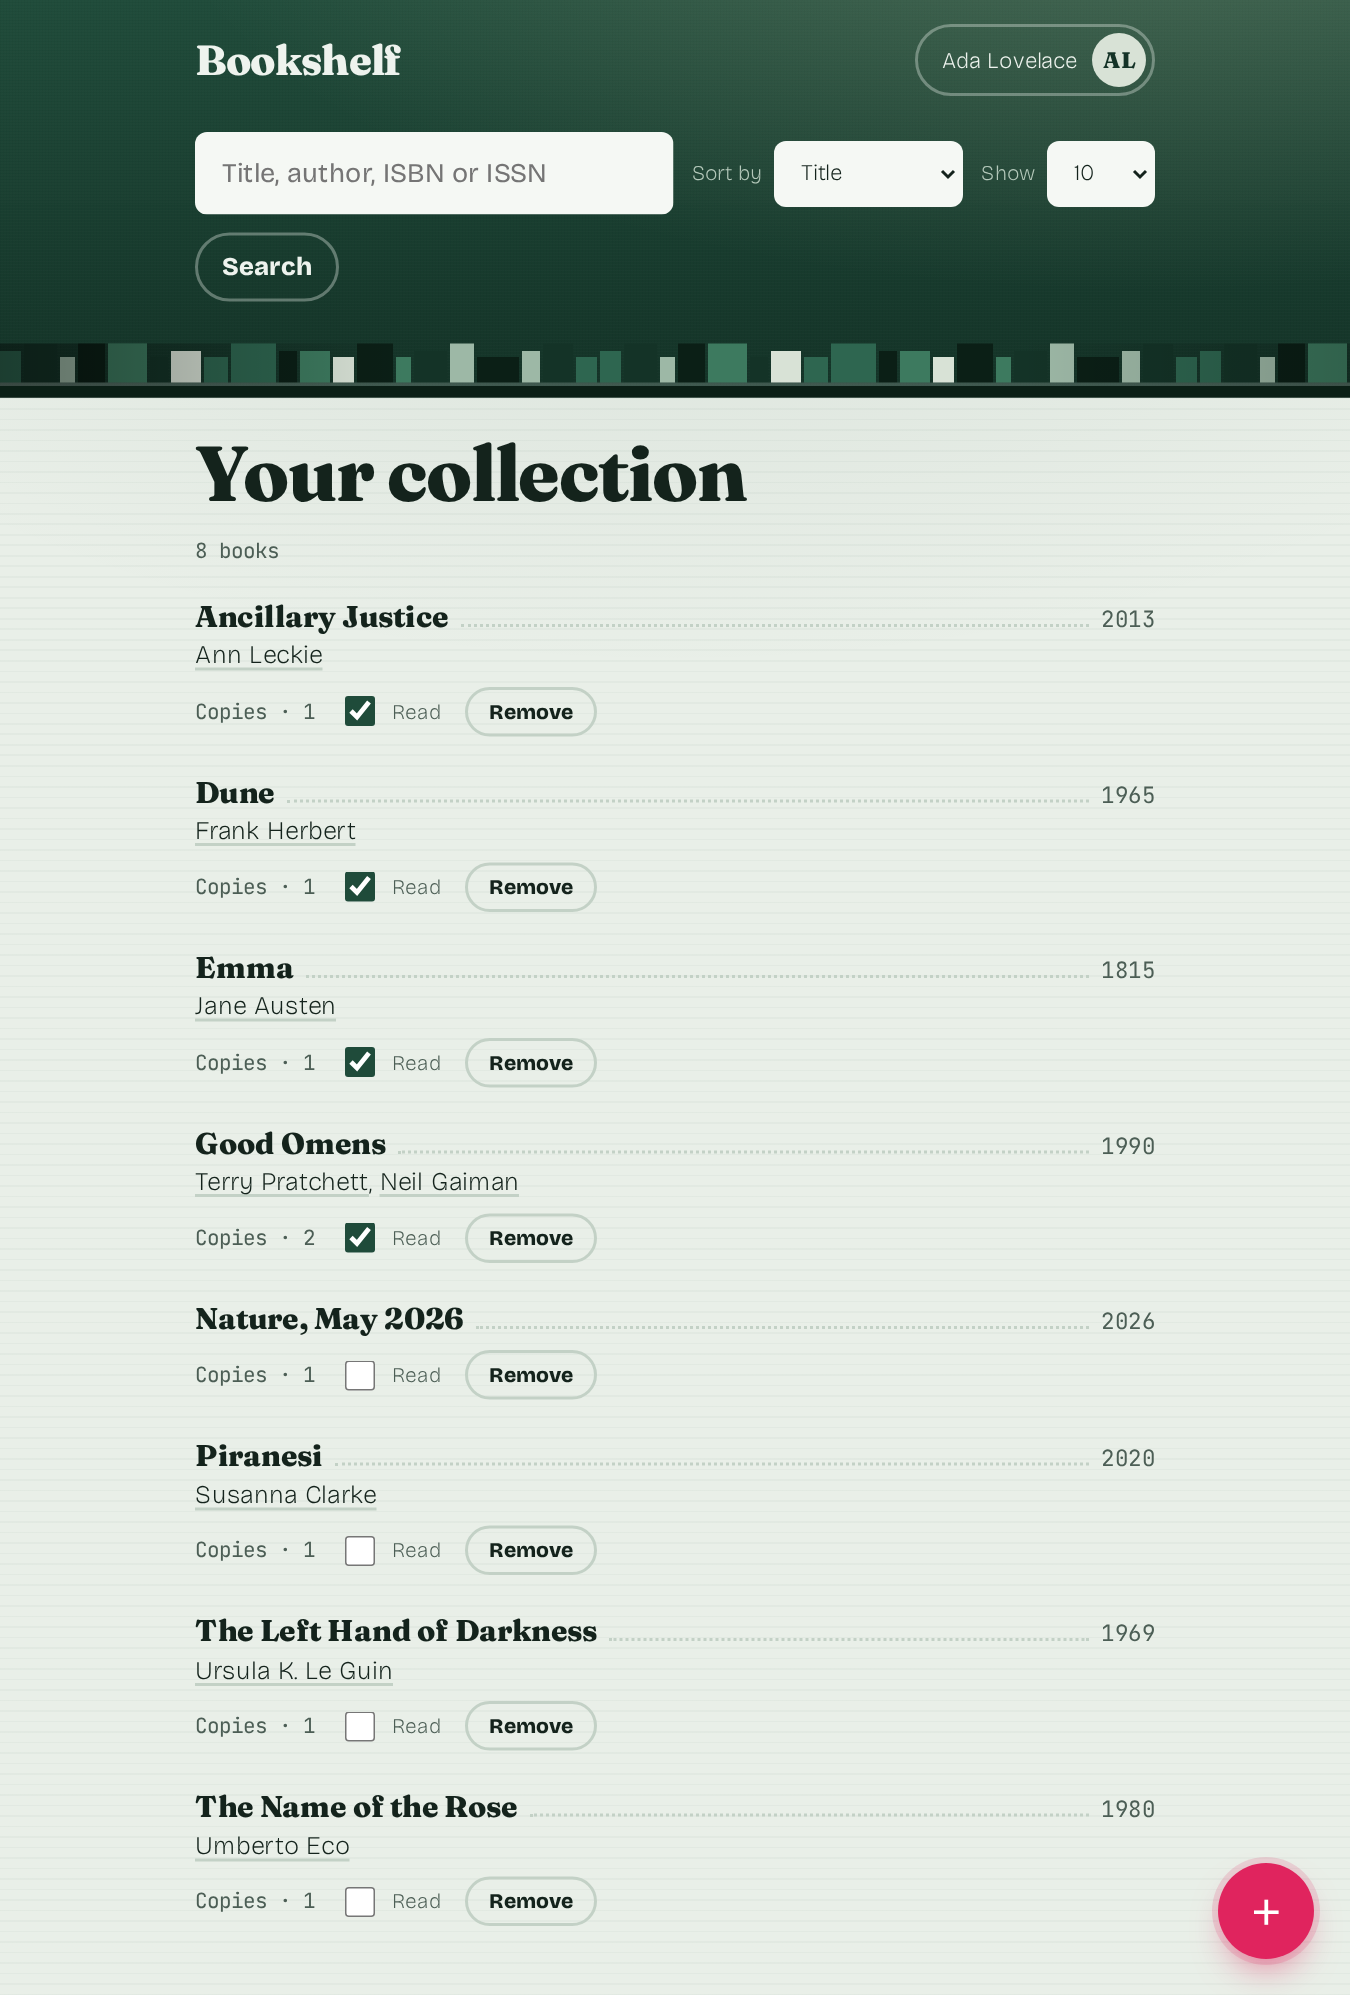
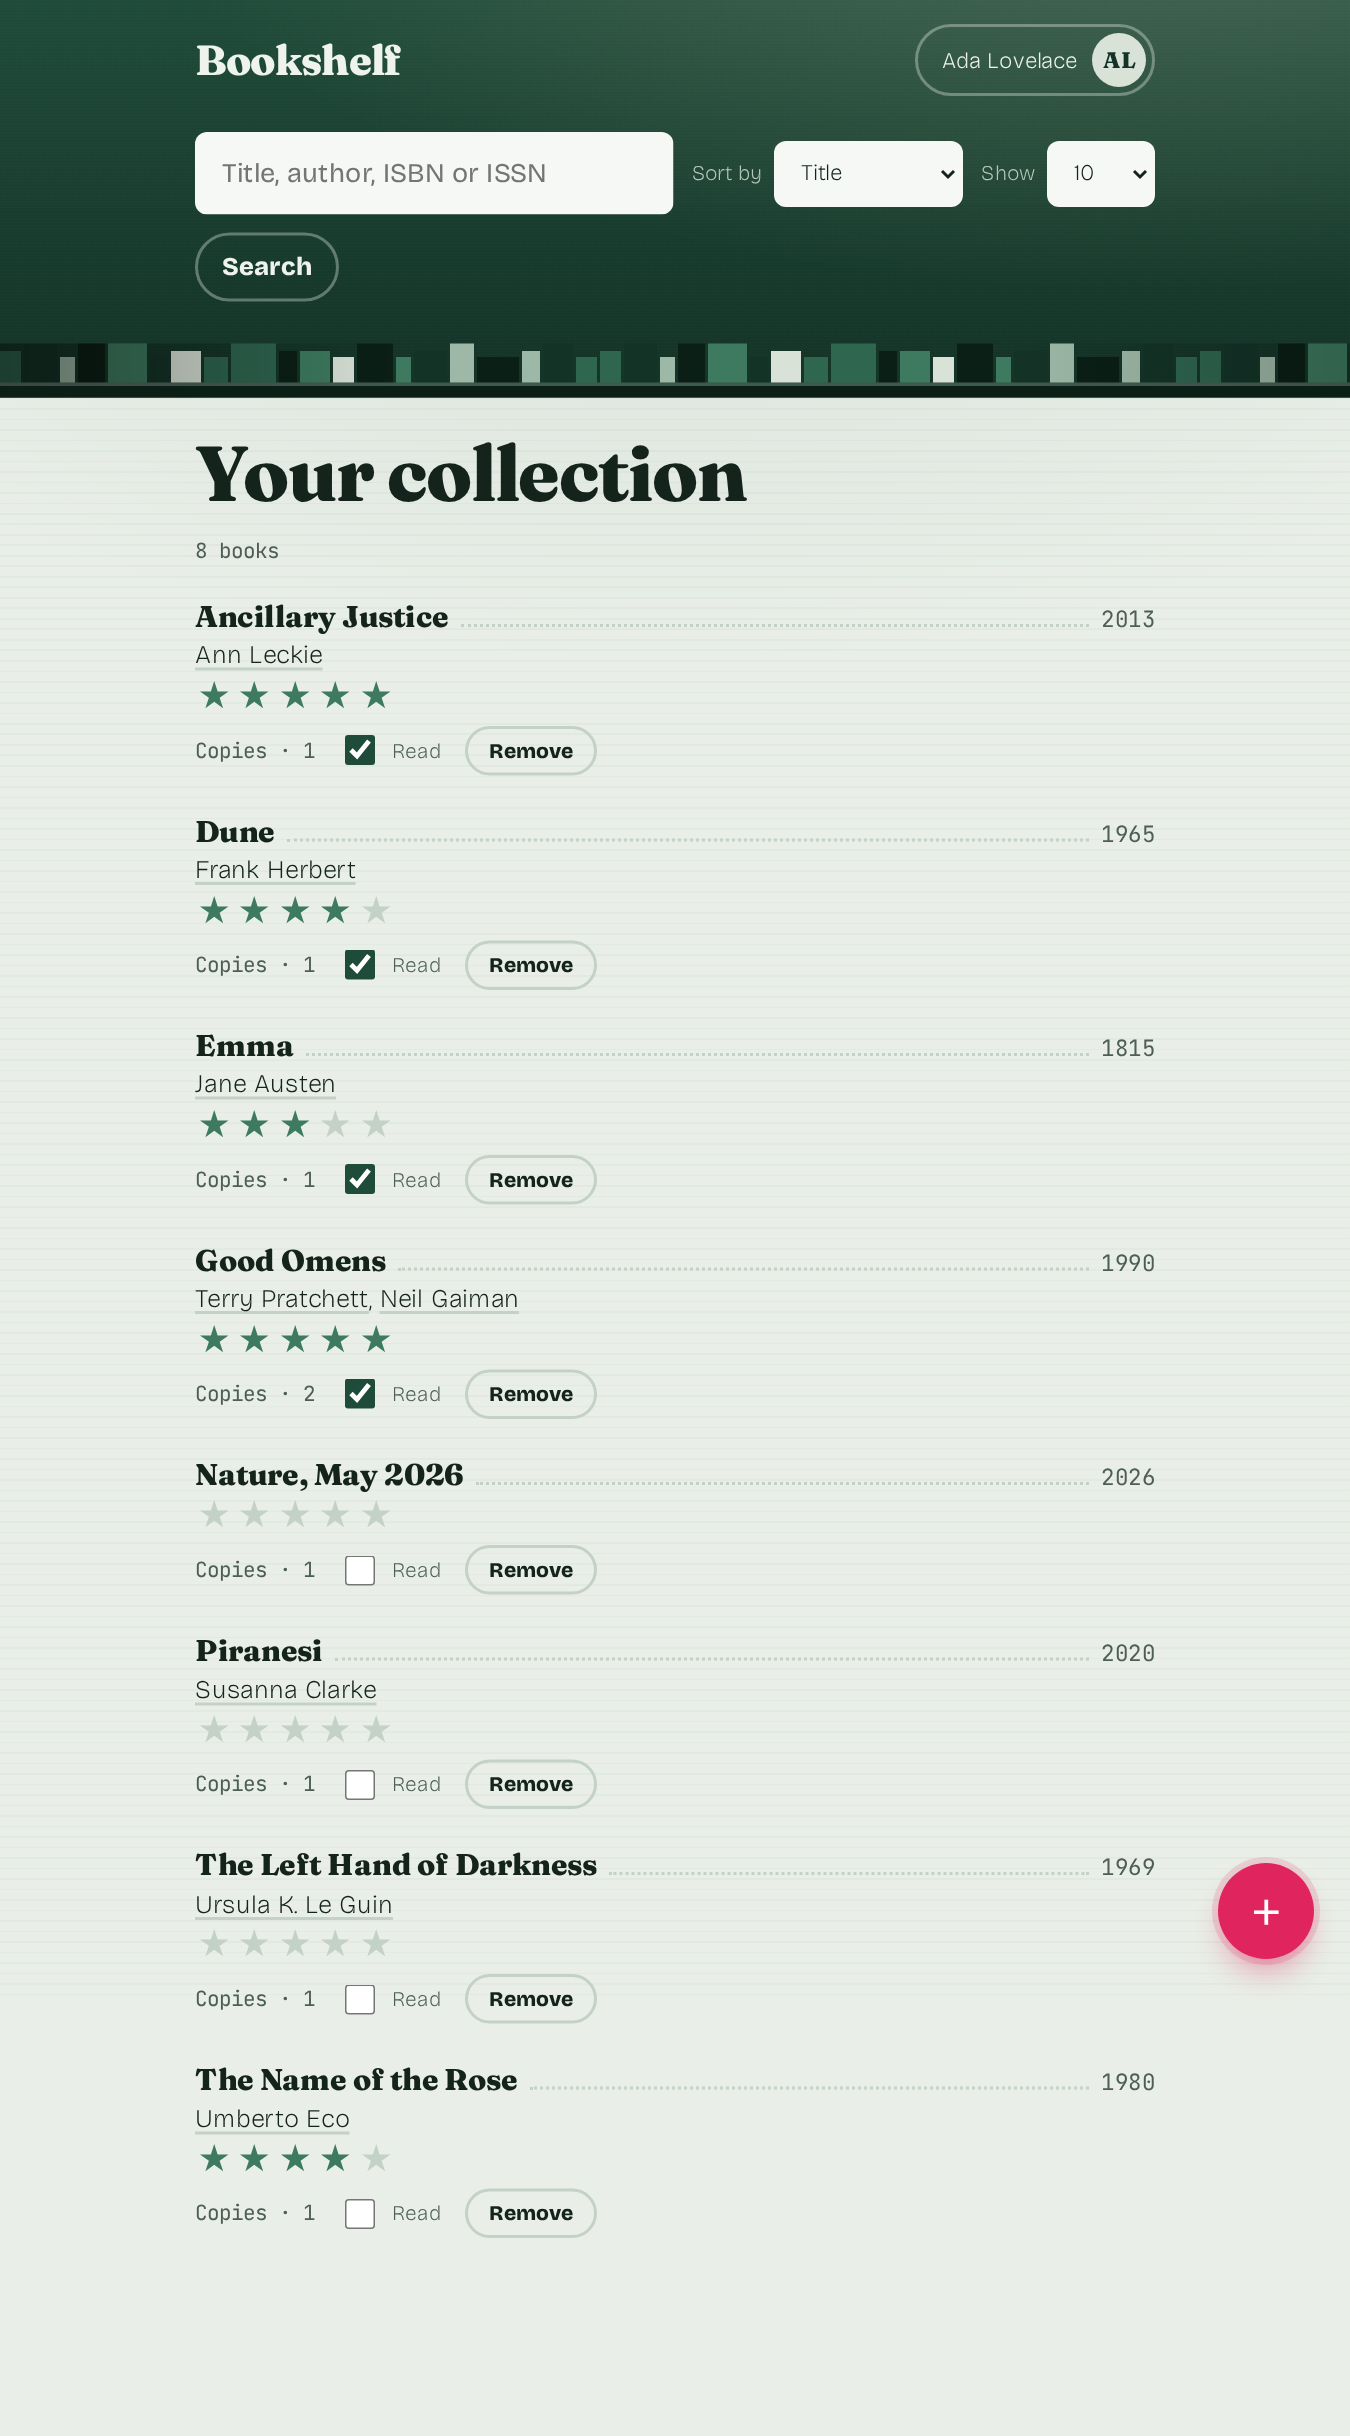
Release 1.7.0

diff --git a/README.md b/README.md
@@ -3,7 +3,7 @@
 A self-hosted web app to manage a book library, built with Flask, HTMX and Firebird or PostgreSQL.
 Requirements and decisions are in [docs/bookshelf.md](docs/bookshelf.md).
 
-![Your collection: the books you own, with their authors, year, copies and whether you have read them](docs/screenshots/collection.png)
+![Your collection: the books you own, with their authors, year, your score in stars, copies and whether you have read them](docs/screenshots/collection.png)
 
 ## Requirements
 
@@ -128,7 +128,9 @@ Clicking a book's title opens it in a dialog to edit every field but the title; 
 book has none, and only admins can change or remove one already set. Admins can also delete a book from that
 dialog, once it is in nobody's collection. A book can belong to a series, with its volume in it, and has a plot.
 "Your collection" is the first page, shown after login and by the "Bookshelf" title: it lists your own books, with
-their copies (changed in each book's dialog) and a "Read" checkbox (books start as not read). The catalogue is "Catalogue" in the account menu.
+their copies (changed in each book's dialog), a "Read" checkbox (books start as not read) and five stars to score
+them from 1 to 5 (clicking the star of your score again clears it). The catalogue, "Catalogue" in the account
+menu, shows each book's median score from every user, in whole and half stars, with how many scored it.
 "Your account" (in the account menu) also exports your collection to a CSV file ("Export CSV") and imports a CSV
 file into it ("Import"): each row is matched to the catalogue by ISBN, or by title and authors without one, and
 added to the catalogue when it is not there; books already in your collection are skipped, and rows that cannot be
@@ -205,7 +207,7 @@ schema additions are created before its pods serve; if it fails, the upgrade fai
 With Firebird in the cluster:
 
 ```sh
-helm install bookshelf oci://quay.io/enricobianchi/bookshelf-chart --version 1.6.0 \
+helm install bookshelf oci://quay.io/enricobianchi/bookshelf-chart --version 1.7.0 \
   -n bookshelf --create-namespace \
   --set firebird.enabled=true \
   --set ingress.enabled=true,ingress.host=books.example.com \

diff --git a/CHANGELOG.md b/CHANGELOG.md
@@ -4,6 +4,24 @@ All notable changes to Bookshelf, newest first. Each version is released as the 
 `quay.io/enricobianchi/bookshelf:<version>` and, from 1.0.2, as the Helm chart
 `oci://quay.io/enricobianchi/bookshelf-chart --version <version>`.
 
+## 1.7.0 (2026-11-25)
+
+### New
+
+- **Scores:** score the books in your collection from 1 to 5 stars, with the five stars under each book; clicking
+  the star of your score again clears it. The catalogue shows each book's median score from every user, in whole
+  and half stars (3 and 4 give 3.5), with how many scored it. Removing a book from your collection removes your
+  score. The schema revision `0005` adds `COLLECTION_BOOKS.SCORE`, applied by `init-db` as usual; 1.6.0 still
+  runs on the upgraded database.
+- **CSV:** the collection's export has a `score` column (1 to 5, blank for none), which the import reads too.
+- **Copying a collection** (admin area and `flask copy-collection`): copied books take the first user's score;
+  the books the other user already has keep theirs.
+
+### Fixes
+
+- PostgreSQL: two `init-db` runs at once on a database without its upgrade lock (the first after installing or
+  upgrading to 1.5.0 or later) could fail with "could not serialize access due to concurrent update".
+
 ## 1.6.0 (2026-11-25)
 
 ### New
